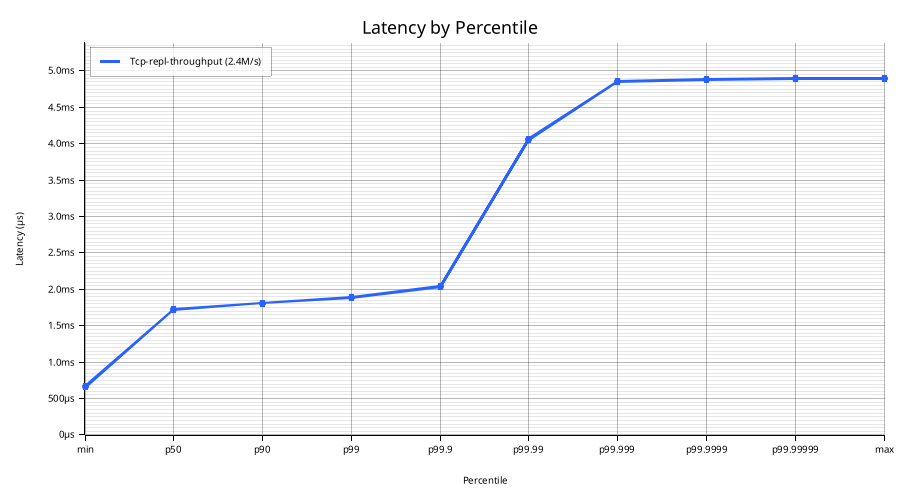
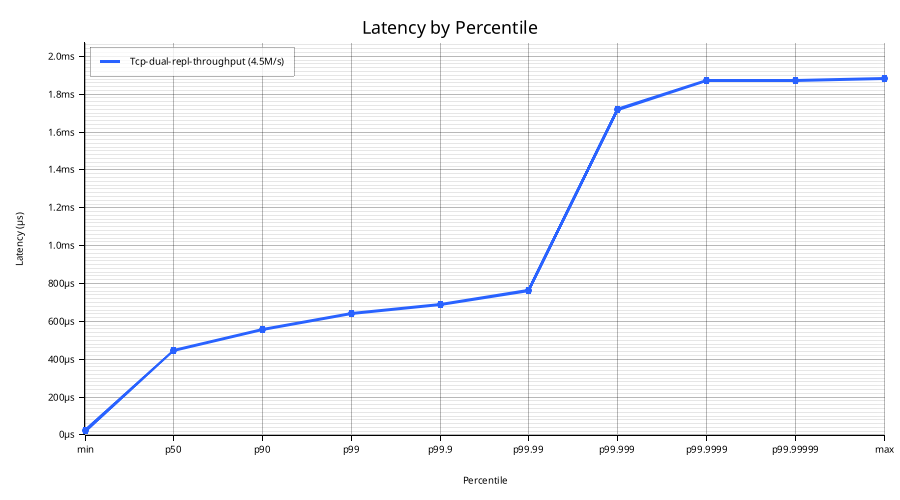
fix(rumcast): non-blocking outbound publish breaks pub_log deadlock
The rumcast-session thread runs muxed_receiver.tick(), muxed_sender.tick(),
inbound poll, and outbound publish all on a single thread (the muxers
require single-producer access). Outbound publish was calling spin_publish
which busy-loops on try_claim until the rumcast pub_log accepts. When the
subscriber falls behind enough that publisher_limit doesn't advance,
try_claim keeps failing — but the SMs that would advance publisher_limit
are drained by the SAME thread, which is now stuck spinning on try_claim.
Permanent deadlock.

Reproduced by the LAN bench at 16 clients × 128 window: handshake
completes (137 ms), bench publishes its initial burst of orders, server
processes them and tries to publish responses, an early packet drop
overflows the bench's recv buffer, bench's MuxedReceiver consumption
position stops advancing, server's publisher_limit (Min flow control)
gates at the same position, spin_publish locks up the rumcast-session
thread, no SMs are processed thereafter, and the whole pipeline freezes.
tcpdump from inside the hang showed 14k SMs/sec inbound from bench but
zero outbound from the response port.

Split handle_outbound into:
- encode_outbound: produces the envelope bytes (and bumps outbound_seq)
- the loop itself: tries try_claim once, on failure parks the encoded
  envelope in pending_publish and retries next iteration

The loop processes pending_publish first each pass so no new outbound
[…]

diff --git a/crates/server/src/rumcast_transport.rs b/crates/server/src/rumcast_transport.rs
@@ -680,6 +680,17 @@ fn session_translator(
     let mut pending_outbound: Option<OutputSlot> = None;
     let mut response_buf = vec![0u8; RESPONSE_ENCODE_BUF_SIZE];
     let mut envelope_buf = vec![0u8; ENVELOPE_BUF_SIZE];
+    // Encoded envelope awaiting publish on its session's PublicationLog.
+    // Set when an outbound slot has been encoded but the rumcast pub_log
+    // can't accept it yet (publisher_limit not advanced — typically the
+    // subscriber hasn't drained recent fragments). Stored as
+    // (session_id, envelope_len_in_envelope_buf) so we don't have to
+    // hold an Arc<PublicationLog> across iterations and re-look-up the
+    // session each retry. The rumcast-session loop must not block on
+    // try_claim — if it did, drain_control on the response socket
+    // wouldn't run, SMs would never be processed, publisher_limit would
+    // never advance, and the loop would deadlock.
+    let mut pending_publish: Option<(u32, usize)> = None;
     // Wall-clock checkpoint for handshake-timeout sweeps. Throttled
     // because the sweep is O(n) over `sessions` and would otherwise
     // run millions of times per second under busy-spin idle.
@@ -793,38 +804,91 @@ fn session_translator(
 
         // ---- Outbound: engine output ring → envelope → PublicationLog ----
         //
-        // Single-pending design: try to consume one slot, hold it
-        // until the journal cursor catches up. This is the
-        // persist-before-ack boundary — we never publish a response
-        // for an event that hasn't been durably journaled.
-        if pending_outbound.is_none()
-            && let Some((_, slot)) = output_consumer.try_consume()
-        {
-            pending_outbound = Some(slot);
-            did_work = true;
+        // Two-stage pending: first wait for the journal cursor to catch
+        // up to the slot (persist-before-ack), then encode the envelope
+        // and try to publish it. If the rumcast pub_log can't accept it
+        // (publisher_limit not advanced because the subscriber hasn't
+        // drained yet), keep the encoded envelope in `pending_publish`
+        // and retry next iteration — never block, since this thread
+        // also drains the SMs that advance publisher_limit.
+
+        // Stage 2: drain a previously-encoded envelope first.
+        if let Some((session_id, env_len)) = pending_publish {
+            match sessions.get(&session_id) {
+                Some(AuthStage::Authenticated { pub_log, .. }) => {
+                    match pub_log.try_claim(env_len as u32) {
+                        Ok(mut claim) => {
+                            claim
+                                .payload_mut()
+                                .copy_from_slice(&envelope_buf[..env_len]);
+                            claim.publish(data_flags::UNFRAGMENTED);
+                            pending_publish = None;
+                            did_work = true;
+                        }
+                        Err(_) => {
+                            // Backpressure: leave pending, try next loop.
+                        }
+                    }
+                }
+                _ => {
+                    // Session evicted (auth timeout or peer disconnect)
+                    // between encode and publish. Drop the response.
+                    pending_publish = None;
+                }
+            }
         }
-        if let Some(slot) = pending_outbound.as_ref() {
-            // Seed events (connection_id=0) come from `seed_and_drain`.
-            // No client to route them to — drop.
-            if slot.connection_id == 0 {
-                pending_outbound = None;
-                // Mark progress so the loop immediately tries to
-                // consume the next slot — otherwise yield-idle mode
-                // would sleep 10µs per dropped seed event, turning
-                // ~hundred-event seed_and_drain into ~ms latency.
-                did_work = true;
-            } else if journal_cursor.get().load(Ordering::Acquire) > slot.input_seq {
-                let slot = pending_outbound.take().expect("checked is_some above");
-                handle_outbound(
-                    &slot,
-                    &mut sessions,
-                    &mut response_buf,
-                    &mut envelope_buf,
-                    shutdown,
-                );
+
+        // Stage 1: only encode a new outbound slot when no publish
+        // is pending — otherwise we'd clobber the envelope buffer.
+        if pending_publish.is_none() {
+            if pending_outbound.is_none()
+                && let Some((_, slot)) = output_consumer.try_consume()
+            {
+                pending_outbound = Some(slot);
                 did_work = true;
             }
-            // else: not durable yet, leave pending and re-check next loop.
+            if let Some(slot) = pending_outbound.as_ref() {
+                // Seed events (connection_id=0) come from `seed_and_drain`.
+                // No client to route them to — drop.
+                if slot.connection_id == 0 {
+                    pending_outbound = None;
+                    // Mark progress so the loop immediately tries to
+                    // consume the next slot — otherwise yield-idle mode
+                    // would sleep 10µs per dropped seed event, turning
+                    // ~hundred-event seed_and_drain into ~ms latency.
+                    did_work = true;
+                } else if journal_cursor.get().load(Ordering::Acquire) > slot.input_seq {
+                    let slot = pending_outbound.take().expect("checked is_some above");
+                    if let Some(env_len) =
+                        encode_outbound(&slot, &mut sessions, &mut response_buf, &mut envelope_buf)
+                    {
+                        // Try the first publish inline so the common
+                        // (uncongested) case avoids a loop iteration.
+                        let session_id = slot.connection_id as u32;
+                        match sessions.get(&session_id) {
+                            Some(AuthStage::Authenticated { pub_log, .. }) => {
+                                match pub_log.try_claim(env_len as u32) {
+                                    Ok(mut claim) => {
+                                        claim
+                                            .payload_mut()
+                                            .copy_from_slice(&envelope_buf[..env_len]);
+                                        claim.publish(data_flags::UNFRAGMENTED);
+                                    }
+                                    Err(_) => {
+                                        // Pub_log full — defer.
+                                        pending_publish = Some((session_id, env_len));
+                                    }
+                                }
+                            }
+                            _ => {
+                                // Race: session evicted between encode and publish.
+                            }
+                        }
+                    }
+                    did_work = true;
+                }
+                // else: not durable yet, leave pending and re-check next loop.
+            }
         }
 
         // ---- Idle ----
@@ -1120,19 +1184,24 @@ fn handle_inbound(
 /// session's per-session PublicationLog. No-op if the session
 /// disappeared between request and response (handshake timed out,
 /// client disconnected, etc.).
-fn handle_outbound(
+/// Encode an outbound slot into an envelope inside `envelope_buf`.
+/// Returns the envelope length on success, or `None` if the session
+/// isn't authenticated or encoding fails. The caller is responsible
+/// for publishing the bytes to the session's PublicationLog — kept
+/// separate from encoding so the publish can be retried across loop
+/// iterations without re-encoding (which would re-bump `outbound_seq`
+/// and create a sequence gap on the receiver).
+fn encode_outbound(
     slot: &OutputSlot,
     sessions: &mut HashMap<u32, AuthStage>,
     response_buf: &mut [u8],
     envelope_buf: &mut [u8],
-    shutdown: &AtomicBool,
-) {
+) -> Option<usize> {
     let session_id = slot.connection_id as u32;
 
     let Some(AuthStage::Authenticated {
         token,
         outbound_seq,
-        pub_log,
         ..
     }) = sessions.get_mut(&session_id)
     else {
@@ -1141,7 +1210,7 @@ fn handle_outbound(
         // pre-auth traffic, since pre-auth requests never reach the
         // engine in the first place.
         debug!(%session_id, "outbound: no authenticated session, dropping");
-        return;
+        return None;
     };
 
     let kind = match slot.payload {
@@ -1175,7 +1244,7 @@ fn handle_outbound(
         Ok(n) => n,
         Err(e) => {
             error!(error = ?e, "failed to encode response");
-            return;
+            return None;
         }
     };
     // Strip the 4-byte length prefix the codec writes for TCP
@@ -1188,12 +1257,10 @@ fn handle_outbound(
         Ok(n) => n,
         Err(e) => {
             error!(error = ?e, "failed to encode envelope");
-            return;
+            return None;
         }
     };
-    let envelope = &envelope_buf[..env_len];
-
-    spin_publish(pub_log, envelope, shutdown);
+    Some(env_len)
 }
 
 /// Encode + publish a handshake-stage response (Challenge,